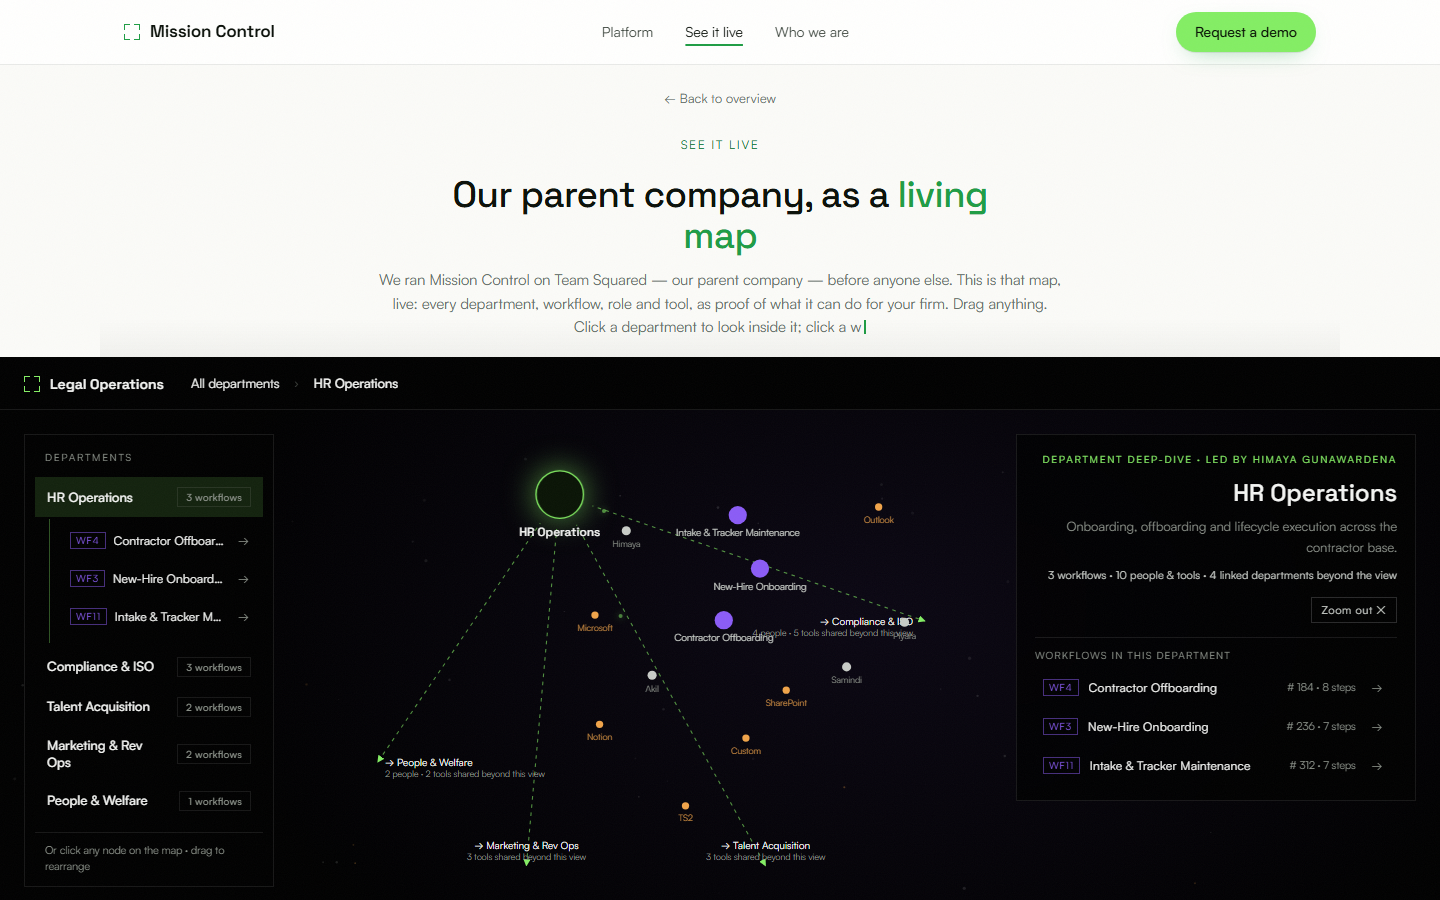
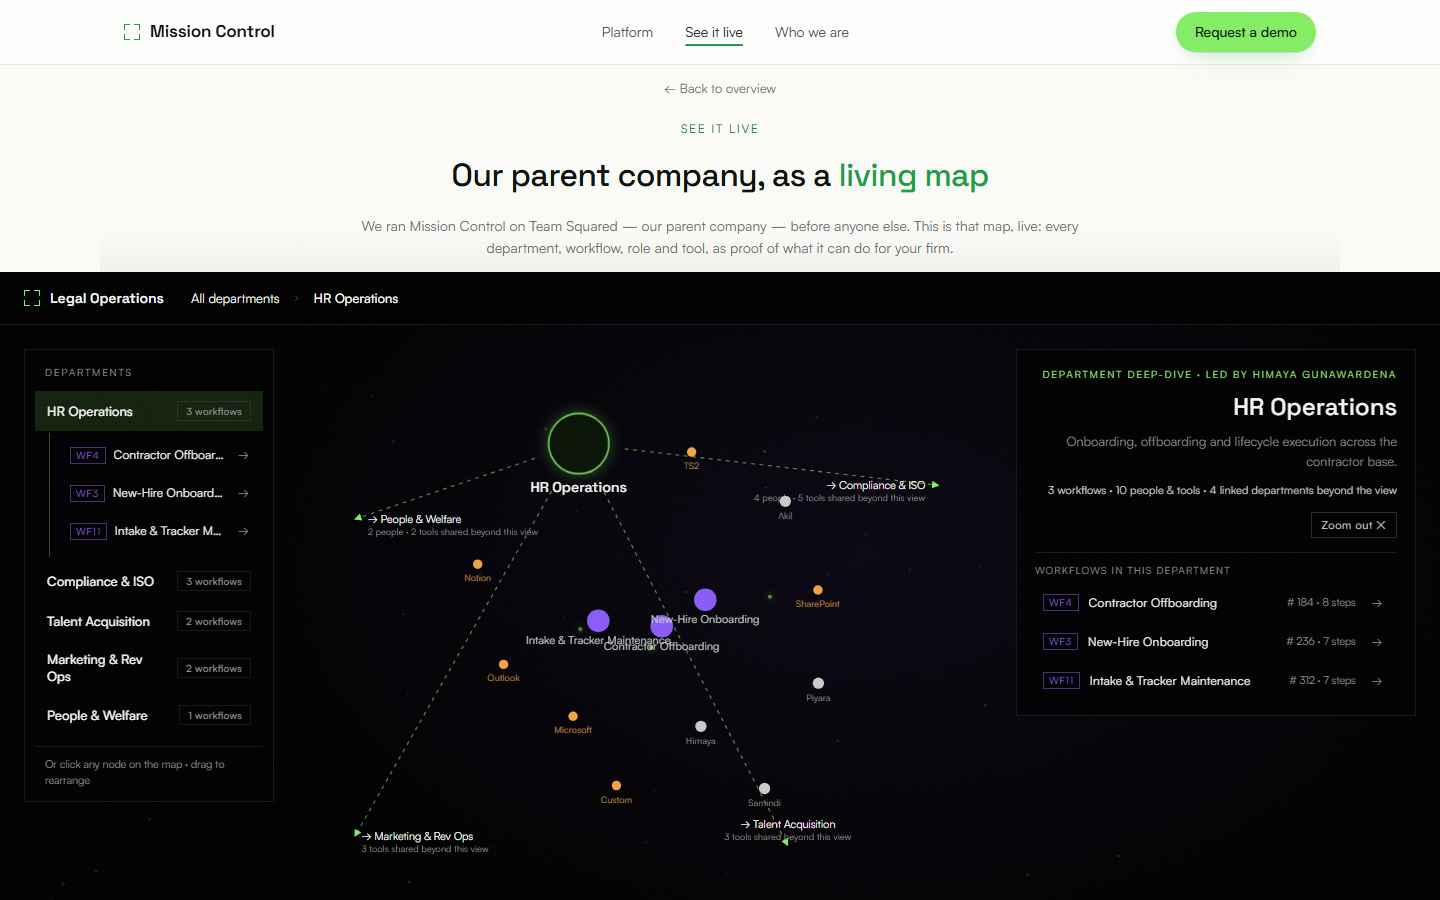
See it live fills one screen: no page scroll, bigger graph
- #try is exactly the viewport (overflow hidden); the atlas takes all the
  height left under a compact centred head
- Graph nodes and labels scaled up; departments start on a wider ring

diff --git a/src/atlas.js b/src/atlas.js
@@ -112,13 +112,13 @@ export function initAtlas(root) {
   function buildGraphData() {
     const nodes = [], links = [], idx = {};
     const add = (n) => { idx[n.id] = n; nodes.push(n); return n; };
-    ATLAS.departments.forEach((d) => add({ id: 'd:' + d.id, kind: 'dept', label: d.name, r: 26, ref: d }));
+    ATLAS.departments.forEach((d) => add({ id: 'd:' + d.id, kind: 'dept', label: d.name, r: 32, ref: d }));
     ATLAS.departments.forEach((d) => d.workflows.forEach((w) => {
-      add({ id: 'w:' + w.id, kind: 'wf', label: w.name, r: 10, ref: w, deptId: d.id });
+      add({ id: 'w:' + w.id, kind: 'wf', label: w.name, r: 12, ref: w, deptId: d.id });
       links.push({ a: 'd:' + d.id, b: 'w:' + w.id, w: 2.2 });
     }));
-    ATLAS.people.forEach((p) => add({ id: 'p:' + p.id, kind: 'person', label: p.name, r: 5, ref: p }));
-    ATLAS.tools.forEach((t) => add({ id: 't:' + t.id, kind: 'tool', label: t.name, r: 4, ref: t }));
+    ATLAS.people.forEach((p) => add({ id: 'p:' + p.id, kind: 'person', label: p.name, r: 6, ref: p }));
+    ATLAS.tools.forEach((t) => add({ id: 't:' + t.id, kind: 'tool', label: t.name, r: 5, ref: t }));
     ATLAS.departments.forEach((d) => d.workflows.forEach((w) => {
       w.people.forEach((p) => idx['p:' + p] && links.push({ a: 'w:' + w.id, b: 'p:' + p, w: 1 }));
       w.tools.forEach((t) => idx['t:' + t] && links.push({ a: 'w:' + w.id, b: 't:' + t, w: 0.7 }));
@@ -144,8 +144,8 @@ export function initAtlas(root) {
     const depts = graph.nodes.filter((n) => n.kind === 'dept');
     depts.forEach((d, i) => {
       const a = (i / depts.length) * Math.PI * 2 - Math.PI / 2;
-      d.x = graph.cx + Math.cos(a) * Math.min(W, H) * 0.26;
-      d.y = graph.cy + Math.sin(a) * Math.min(W, H) * 0.26;
+      d.x = graph.cx + Math.cos(a) * Math.min(W, H) * 0.34;
+      d.y = graph.cy + Math.sin(a) * Math.min(W, H) * 0.34;
     });
     graph.nodes.forEach((n) => {
       if (n.kind === 'dept') return;
@@ -374,7 +374,7 @@ export function initAtlas(root) {
       });
       links.forEach((l) => {
         if (l.off) return;
-        const rest = l.s.kind === 'dept' || l.t.kind === 'dept' ? (state.dept ? 200 : 150) : (state.dept ? 124 : 92);
+        const rest = l.s.kind === 'dept' || l.t.kind === 'dept' ? (state.dept ? 200 : 180) : (state.dept ? 124 : 110);
         const dx = l.t.x - l.s.x, dy = l.t.y - l.s.y, d = Math.hypot(dx, dy) || 1;
         const f = ((d - rest) / d) * 0.03 * l.w * alpha;
         if (!l.s.fixed) { l.s.vx += dx * f; l.s.vy += dy * f; }

diff --git a/src/atlas.css b/src/atlas.css
@@ -3,7 +3,7 @@
    Mission Control palette (obsidian · lime · violet · amber)
    ============================================================ */
 /* the Try view fills exactly one screen: header on top, atlas takes the rest */
-#try.active { display: flex; flex-direction: column; height: 100vh; }
+#try.active { display: flex; flex-direction: column; height: 100vh; overflow: hidden; } /* exactly one screen: no page scroll, no white below */
 #try .view-head { flex: none; width: 100%; }
 /* The atlas is the product instrument: it keeps its own dark palette regardless of the page theme.
    Every rule below reads these scoped tokens; the focus window and tooltip live inside .atlas so they inherit them. */
@@ -22,7 +22,7 @@
   --amber: #f0a44a;
   position: relative;
   flex: 1;
-  min-height: 560px;
+  min-height: 0;
   border-top: 1px solid rgba(11, 17, 10, 0.12);
   overflow: hidden;
   background: var(--bg-0);
@@ -120,9 +120,9 @@
   50%      { filter: drop-shadow(0 0 20px rgba(132,238,100,0.65)); }
 }
 /* text sizes scale with the camera (--zs = viewBox width / svg width) so labels keep their on-screen size */
-.g-node.dept text { font-family: var(--font-display); font-size: calc(13px * var(--zs, 1)); font-weight: 500; fill: var(--text-hi); }
+.g-node.dept text { font-family: var(--font-display); font-size: calc(14.5px * var(--zs, 1)); font-weight: 500; fill: var(--text-hi); }
 .g-node.wf circle { fill: var(--glow-violet); }
-.g-node.wf text { font-size: calc(10.5px * var(--zs, 1)); fill: var(--text-mid); }
+.g-node.wf text { font-size: calc(11.5px * var(--zs, 1)); fill: var(--text-mid); }
 .g-node.person circle { fill: var(--text-mid); }
 .g-node.person text { font-size: calc(9.5px * var(--zs, 1)); fill: var(--text-lo); }
 .g-node.tool circle { fill: var(--amber); }

diff --git a/src/styles.css b/src/styles.css
@@ -686,10 +686,11 @@ body[data-view] main, body[data-view] footer { display: none; }
 .head-center .section-h { max-width: 24ch; font-size: clamp(2.2rem, 4.4vw, 3.6rem); }
 .head-center .section-sub { text-align: center; }
 /* See it live: centred head, typed in */
-#try .view-head.try-head { display: flex; flex-direction: column; align-items: center; text-align: center; padding: 24px 0 18px; }
-#try .try-head .section-h { max-width: 24ch; min-height: 1.15em; }
-#try .try-head .section-sub { max-width: 68ch; min-height: 3.2em; font-size: 0.92rem; }
-#try .try-head .view-back { align-self: center; margin-bottom: 14px; }
+#try .view-head.try-head { display: flex; flex-direction: column; align-items: center; text-align: center; padding: 14px 0 12px; }
+#try .try-head .eyebrow { margin-bottom: 8px; }
+#try .try-head .section-h { max-width: 28ch; min-height: 1.15em; font-size: clamp(1.4rem, 2.4vw, 2rem); margin-bottom: 8px; }
+#try .try-head .section-sub { max-width: 78ch; min-height: 2.2em; font-size: 0.88rem; }
+#try .try-head .view-back { align-self: center; margin-bottom: 8px; }
 .tw-caret { display: inline-block; width: 2px; height: 0.95em; background: var(--accent); margin-left: 3px; vertical-align: -0.12em; animation: tw-blink 0.9s steps(1) infinite; }
 @keyframes tw-blink { 50% { opacity: 0; } }
 .villain-card h3 { font-size: 1.35rem; color: var(--text-hi); }
